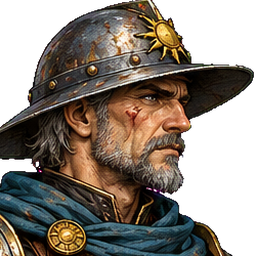
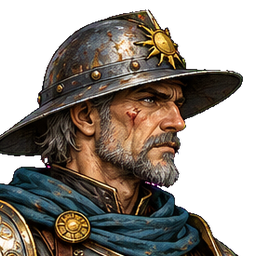
WIP: Vell poses, mob json

diff --git a/tools/import-mobs.py b/tools/import-mobs.py
@@ -96,8 +96,8 @@ HEADS = {
     'weir_wyrm': (1270, 100, 400),
     'admiral_vane': (770, 20, 300),
     'drowned_queen': (700, 0, 330),
-    'pit_champion_gorr': (410, 0, 290),  # 2026-10-27 kendi çizimi (önceden Bandit Chief)
-    'inquisitor_captain_vell': (400, 52, 250),  # 2026-10-27 kendi çizimi (önceden Oathsworn Brother)
+    'pit_champion_gorr': (412, 0, 300),  # 2026-10-27 kendi çizimi (önceden Bandit Chief)
+    'inquisitor_captain_vell': (400, 40, 275),  # 2026-10-27 kendi çizimi (önceden Oathsworn Brother)
     'hex_totem': (313, 290, 240),
     'harpoon_ballista': (760, 60, 640),  # Harita 2 yardımcı nesnesi (Admiral Vane'in Harpoon Ballista'sı)
 }
